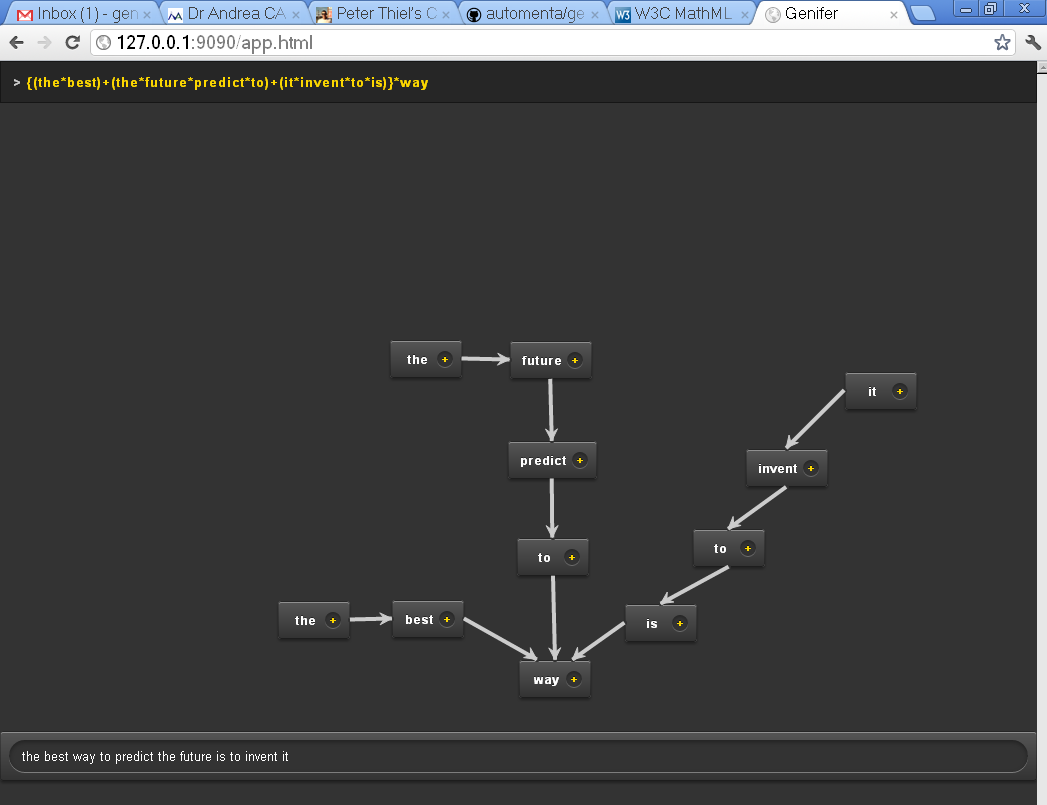
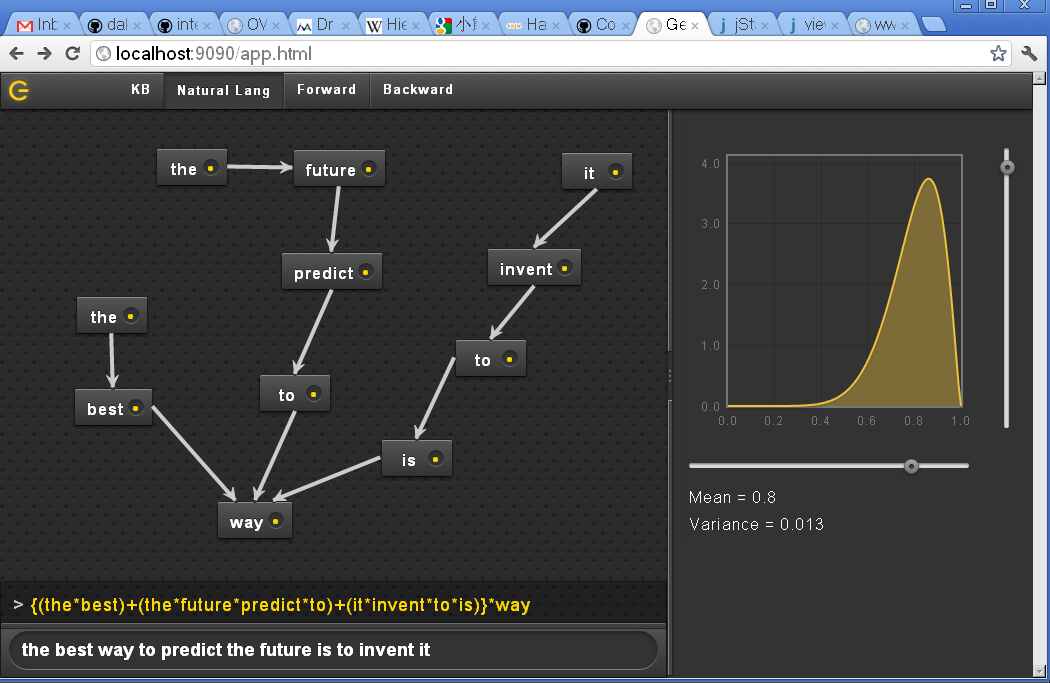
Polished PZ tab, new screen shot -- so pretty!

diff --git a/web/js/script.js b/web/js/script.js
@@ -22,7 +22,7 @@ var numPoints = 100;
 				orientation: "horizontal",
 				// range: "min",
 				step: 0.01,
-				min: 0.11,
+				min: 0.0,
 				max: 1.0,
 				value: 0.5,
 				slide: function( event, ui ) {
@@ -46,11 +46,11 @@ var numPoints = 100;
 				// range: "min",
 				step: 0.0005,
 				min: 0.0001,
-				max: 0.1,
-				value: 0.0971,
+				max: 0.2,
+				value: 0.1971,
 				slide: function( event, ui ) {
-					var v = 0.1001 - ui.value;
-					scope.variance = v;
+					var v = 0.2001 - ui.value;
+					scope.variance = Math.round(v*1000)/1000;
 					var m = scope.mean;
 					var a = -m * (v + m * m - m) / v;
 					var b = (v + m * m - m)*(m - 1)/v;
@@ -61,12 +61,12 @@ var numPoints = 100;
 			});
 		}
 	});
-	
+
 	geniferApp.controller("prioritizeController", ["$scope", "pubsub", function ($scope, pubsub) {
 
 		$scope.mean = 0.5;
-		$scope.variance = 0.0971;
-		
+		$scope.variance = 0.003;
+
 		$scope.$watch("mean", function(newVal, oldVal) {
 			console.log(newVal);
 		});
@@ -157,7 +157,8 @@ var numPoints = 100;
 		// Jstat
 		dist = new BetaDistribution(41, 41);
 		plot = new DistributionPlot("plot", dist, dist.getRange(5, numPoints), {
-	    	grid: { color: "#777" }
+	    	grid: { color: "#777" },
+			legend: { show: false }
 		});
 		plot.setFill(true);
 		
